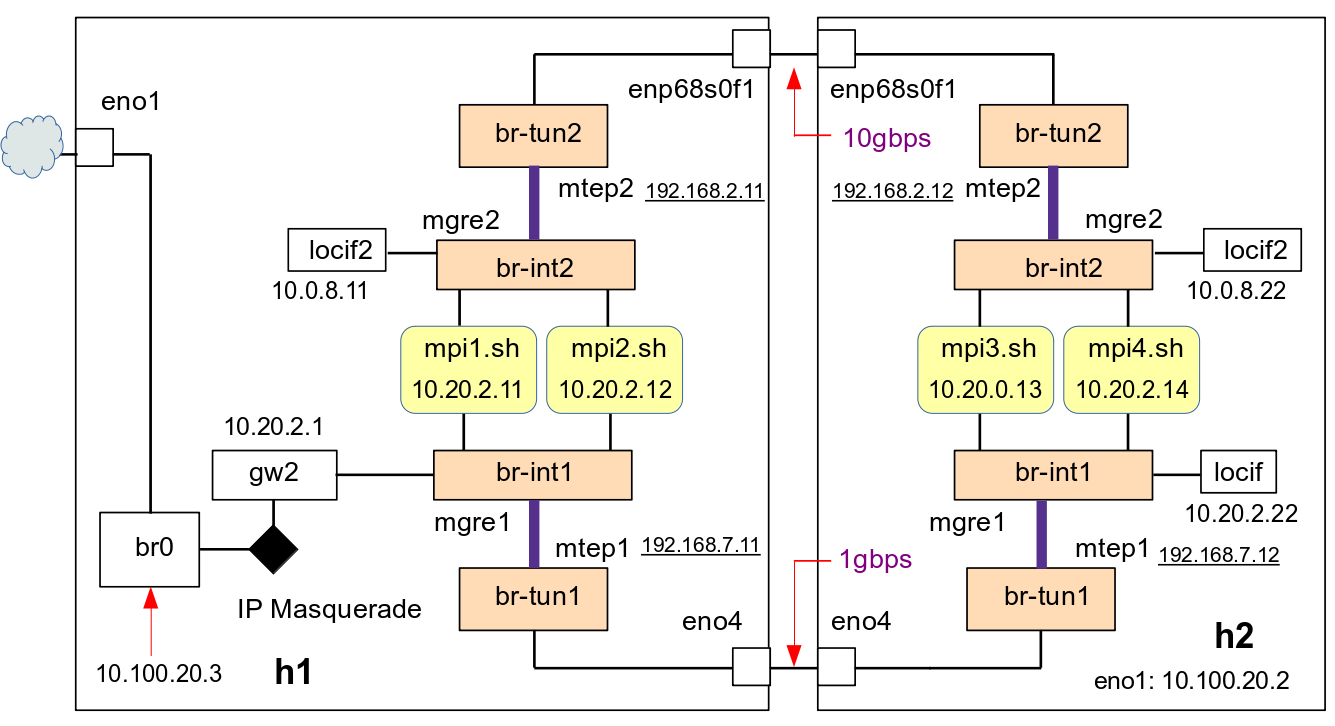
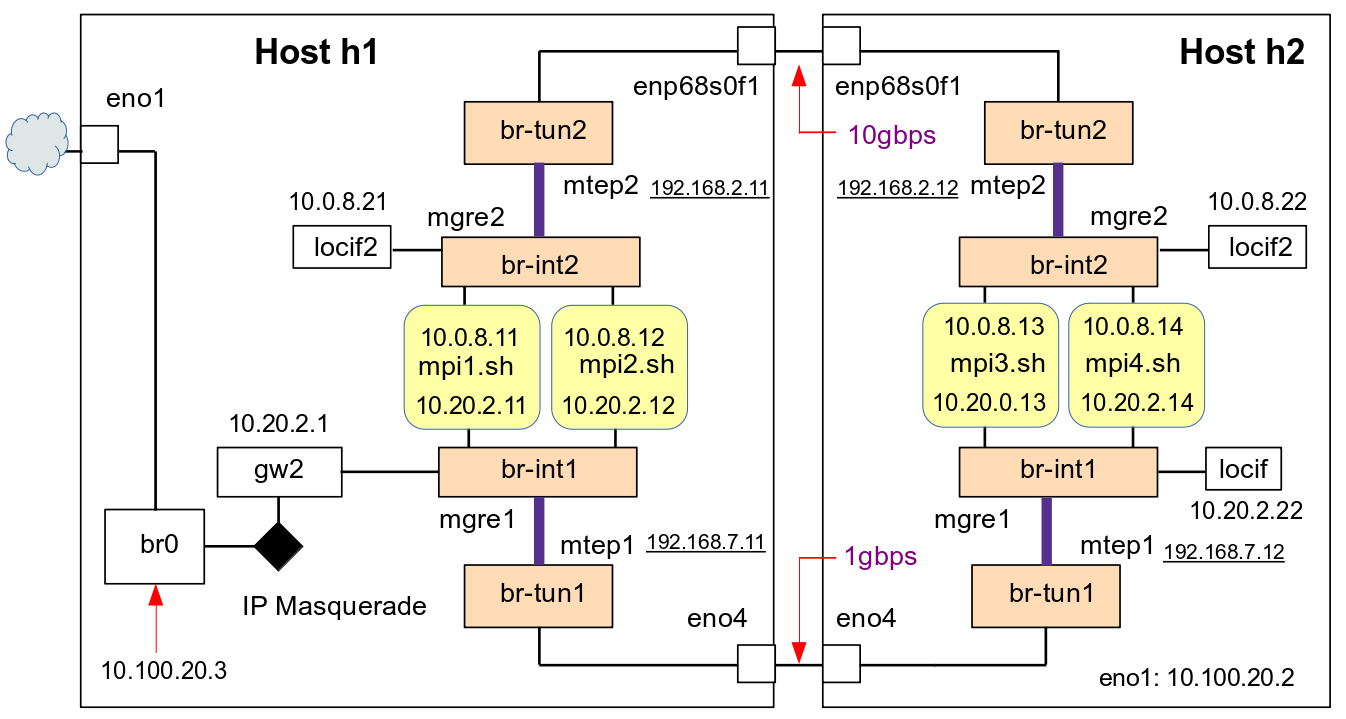
upppp

diff --git a/README.md b/README.md
@@ -3490,7 +3490,7 @@ $
 On host h1: 
 $ sudo ovs-vsctl add-port br-int2 mgre2 -- set interface mgre2  type=gre options:remote_ip=192.168.2.12
 $ sudo ovs-vsctl add-port br-int2 locif2 -- set interface locif2 type=internal
-$ sudo ip address add 10.0.8.11/24 dev locif2
+$ sudo ip address add 10.0.8.21/24 dev locif2
 $ sudo ifconfig locif2 up
 </pre>
 
@@ -3516,11 +3516,11 @@ $
 
 <pre>
 On host h2:
-$ ping -c 1 10.0.8.11
-PING 10.0.8.11 (10.0.8.11) 56(84) bytes of data.
-64 bytes from 10.0.8.11: icmp_seq=1 ttl=64 time=1.93 ms
+$ ping -c 1 10.0.8.21
+PING 10.0.8.21 (10.0.8.21) 56(84) bytes of data.
+64 bytes from 10.0.8.21: icmp_seq=1 ttl=64 time=1.93 ms
 
---- 10.0.8.11 ping statistics ---
+--- 10.0.8.21 ping statistics ---
 1 packets transmitted, 1 received, 0% packet loss, time 0ms
 rtt min/avg/max/mdev = 1.927/1.927/1.927/0.000 ms
 $
@@ -3622,6 +3622,48 @@ $ sudo ovs-vsctl show
 $
 </pre>
 
+<pre>
+On host h1 and h2: 
+$ cd /srv/kasidit/bookhosts/etc
+$
+$ which ifconfig
+/usr/sbin/ifconfig
+$ which ovs-vsctl
+/usr/bin/ovs-vsctl
+$
+$ cp ovs-ifup ovs-int1-ifup
+$ cp ovs-ifdown ovs-int1-ifdown
+$ vi ovs-int1-ifup
+$ cat ovs-int1-ifup
+#!/bin/sh
+switch='br-int1'
+/usr/sbin/ifconfig $1 0.0.0.0 up
+/usr/bin/ovs-vsctl add-port ${switch} $1
+$
+$ vi ovs-int1-ifdown
+$ cat ovs-int1-ifdown
+#!/bin/sh
+switch='br-int1'
+/usr/sbin/ifconfig $1 0.0.0.0 down
+/usr/bin/ovs-vsctl del-port ${switch} $1
+$
+$ cp ovs-ifup ovs-int2-ifup
+$ cp ovs-ifdown ovs-int2-ifdown
+$ vi ovs-int2-ifup
+$ vi ovs-int2-ifdown
+$ cat ovs-int2-ifup
+#!/bin/sh
+switch='br-int2'
+/usr/sbin/ifconfig $1 0.0.0.0 up
+/usr/bin/ovs-vsctl add-port ${switch} $1
+$
+$ cat ovs-int2-ifdown
+#!/bin/sh
+switch='br-int2'
+/usr/sbin/ifconfig $1 0.0.0.0 down
+/usr/bin/ovs-vsctl del-port ${switch} $1
+$ 
+</pre>
 
 
 
